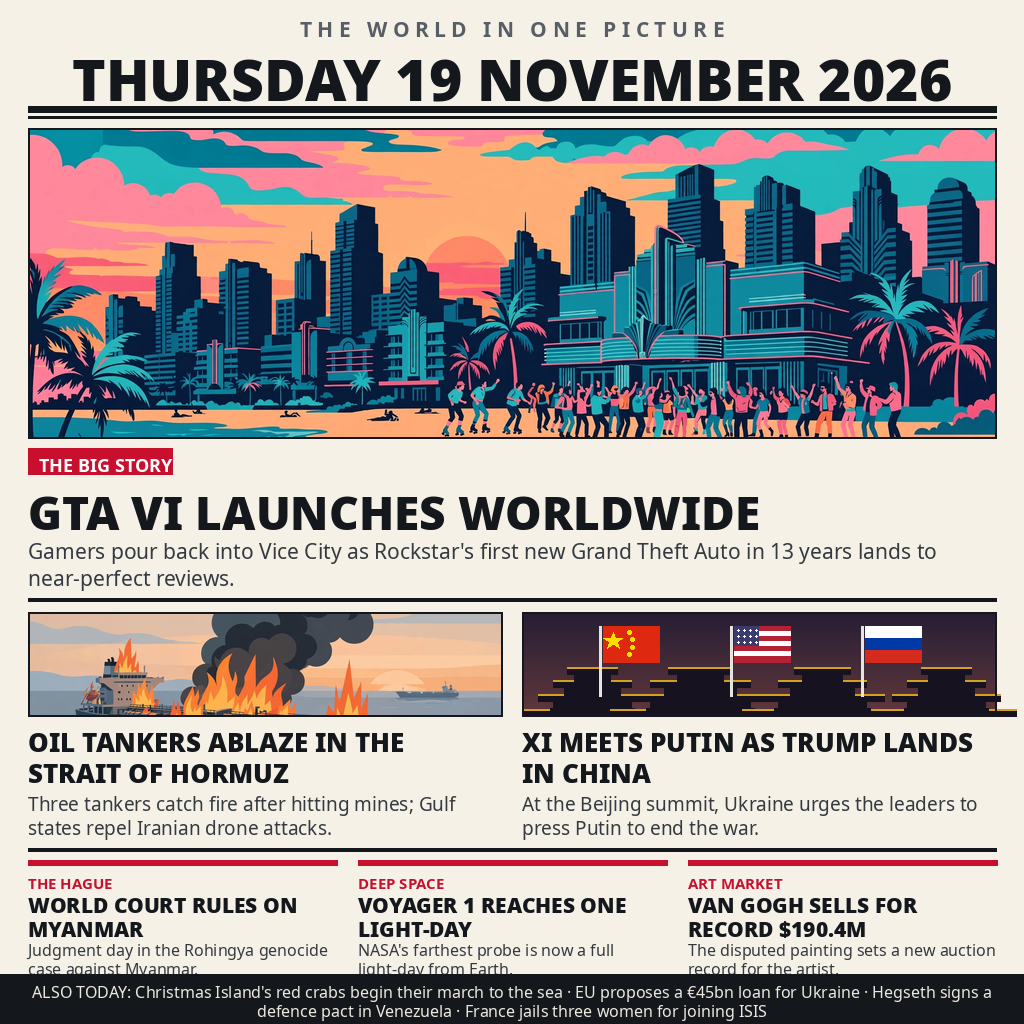
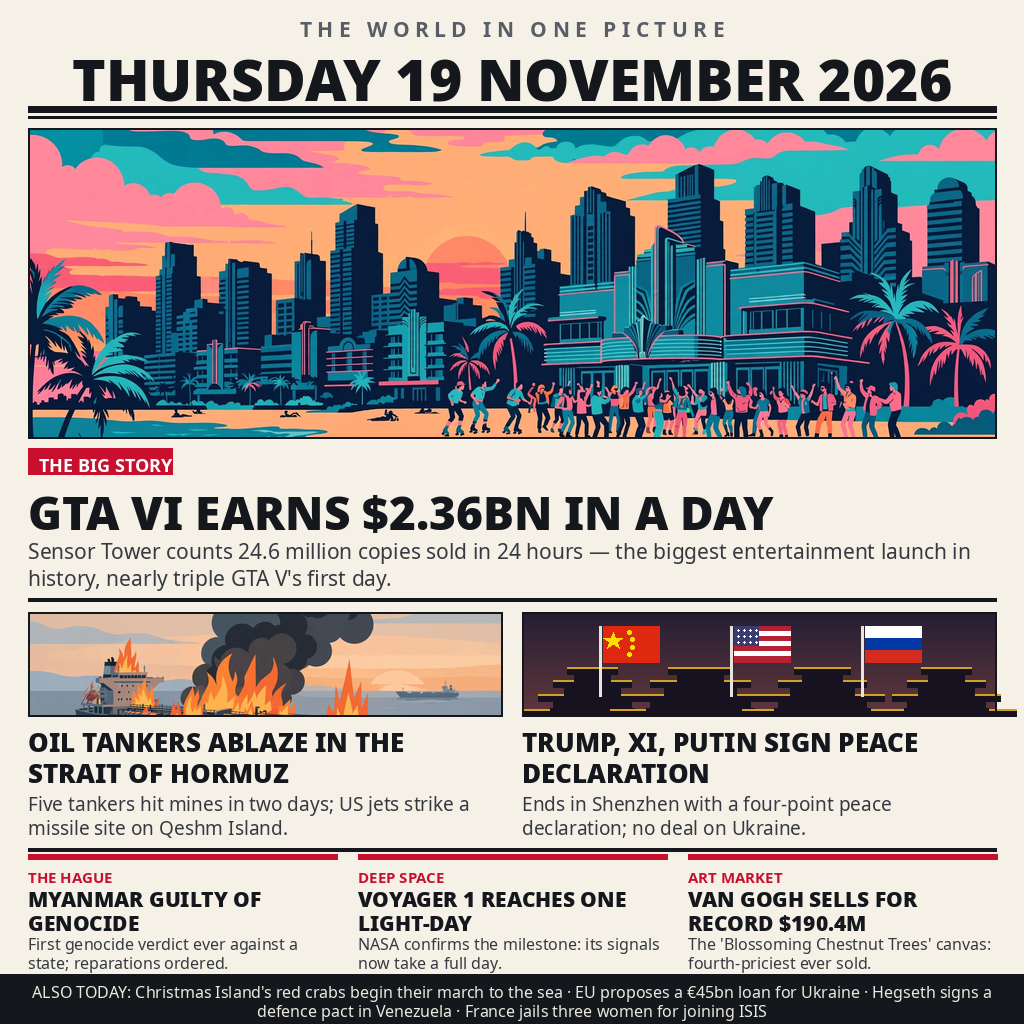
Full-day edition: GTA VI's $2.36bn launch day, ICJ genocide verdict, Shenzhen peace declaration
Refresh of the 19 Nov 2026 front page with the whole day's news:
- Lead: GTA VI earns an estimated $2.36bn on launch day (Sensor Tower,
  24.6m copies) - the biggest entertainment launch in history
- Summit panel corrected to Shenzhen and updated with the four-point
  peace declaration (was previewed as a Beijing summit in the morning)
- Hormuz caption: five tankers hit mines in two days; US strikes a
  missile site on Qeshm Island
- Hague card now carries the verdict: Myanmar guilty of genocide,
  reparations ordered
- Voyager card: NASA confirms the one-light-day milestone
- Van Gogh card names the painting ('Blossoming Chestnut Trees')
- Card band raised 6px so captions clear the footer ticker
- Adds draw_entry.py, the build-time generator; main.py stays a
  stdlib-only copier

Changed region(s): [[0.0312, 0.7188, 0.9688, 0.9688], [0.0312, 0.4688, 0.9375, 0.5938], [0.1875, 0.4688, 0.2188, 0.5]]

diff --git a/draw_entry.py b/draw_entry.py
@@ -1,0 +1,180 @@
+#!/usr/bin/env python3
+"""Build-time generator for the news-image-20261119 entry.
+
+Draws the front page (1024x1024) and saves it as entry.png beside this
+file. This is NOT the entrypoint: the site's runner has no Pillow, so
+main.py is a stdlib-only copier that delivers the committed entry.png
+byte for byte. Run this only where Pillow is installed, to regenerate
+the picture. The two panel illustrations (Vice City, tanker) are
+build-workspace files; ART_DIR points at them.
+
+Full-day edition for Thursday 19 November 2026: GTA VI's launch day
+closes with an estimated $2.36bn in sales (Sensor Tower); the World
+Court finds Myanmar committed genocide against the Rohingya; Trump, Xi
+and Putin end their Shenzhen summit with a peace declaration; five
+tankers hit mines in the Strait of Hormuz in two days; NASA confirms
+Voyager 1 at one light-day; a Van Gogh sells for a record $190.4M.
+"""
+import os
+
+from PIL import Image, ImageDraw, ImageFont
+
+W = H = 1024
+PAPER = (246, 241, 231)
+INK = (20, 24, 29)
+RED = (200, 16, 46)
+GREY = (88, 94, 102)
+BODY = (52, 58, 64)
+WHITE = (255, 255, 255)
+GOLD = (212, 160, 32)
+ART_DIR = "/home/hatch/workspace/makefun/news-image-20261119/work"
+HERE = os.path.dirname(os.path.abspath(__file__))
+
+F_BLACK = "/usr/share/fonts/truetype/noto/NotoSans-Black.ttf"
+F_BOLD = "/usr/share/fonts/truetype/noto/NotoSans-Bold.ttf"
+F_REG = "/usr/share/fonts/truetype/noto/NotoSans-Regular.ttf"
+
+def F(path, size):
+    return ImageFont.truetype(path, size)
+
+def tw(d, s, f):
+    return d.textlength(s, font=f)
+
+def center(d, cx, y, s, f, fill):
+    d.text((cx - tw(d, s, f) / 2, y), s, font=f, fill=fill)
+
+def wrap(d, s, f, max_w):
+    words, lines, cur = s.split(), [], ""
+    for w_ in words:
+        t = (cur + " " + w_).strip()
+        if tw(d, t, f) <= max_w:
+            cur = t
+        else:
+            lines.append(cur); cur = w_
+    if cur:
+        lines.append(cur)
+    return lines
+
+def paste_cover(canvas, im, box):
+    x0, y0, x1, y1 = box
+    tw_, th_ = x1 - x0, y1 - y0
+    iw, ih = im.size
+    sc = max(tw_ / iw, th_ / ih)
+    nw, nh = int(iw * sc + 0.5), int(ih * sc + 0.5)
+    r = im.resize((nw, nh), Image.LANCZOS)
+    ox, oy = (nw - tw_) // 2, (nh - th_) // 2
+    canvas.paste(r.crop((ox, oy, ox + tw_, oy + th_)), (x0, y0))
+
+img = Image.new("RGB", (W, H), PAPER)
+d = ImageDraw.Draw(img)
+
+# ---------- masthead ----------
+center(d, W // 2, 14, "T H E   W O R L D   I N   O N E   P I C T U R E", F(F_BOLD, 21), GREY)
+center(d, W // 2, 40, "THURSDAY 19 NOVEMBER 2026", F(F_BLACK, 57), INK)
+d.rectangle([28, 106, 996, 112], fill=INK)
+d.rectangle([28, 116, 996, 118], fill=INK)
+
+# ---------- lead: GTA VI ----------
+vice = Image.open(ART_DIR + "/media-generation-panel-vice-city-0-dc0eb8fd-ee83-40b0-964a-c3bb29fb68ce.png").convert("RGB")
+paste_cover(img, vice, (28, 128, 996, 438))
+d.rectangle([28, 128, 996, 438], outline=INK, width=2)
+d.rectangle([28, 448, 172, 474], fill=RED)
+d.text((39, 452), "THE BIG STORY", font=F(F_BOLD, 18), fill=WHITE)
+d.text((28, 480), "GTA VI EARNS $2.36BN IN A DAY", font=F(F_BLACK, 46), fill=INK)
+sub = "Sensor Tower counts 24.6 million copies sold in 24 hours \u2014 the biggest entertainment launch in history, nearly triple GTA V's first day."
+for i, line in enumerate(wrap(d, sub, F(F_REG, 21), 968)):
+    d.text((28, 536 + i * 27), line, font=F(F_REG, 21), fill=BODY)
+d.rectangle([28, 598, 996, 601], fill=INK)
+
+# ---------- middle row ----------
+tanker = Image.open(ART_DIR + "/media-generation-panel-tanker-0-9ad66c44-70e5-449d-ba15-0ac3c661afc2.png").convert("RGB")
+paste_cover(img, tanker, (28, 612, 502, 716))
+d.rectangle([28, 612, 502, 716], outline=INK, width=2)
+for i, line in enumerate(wrap(d, "OIL TANKERS ABLAZE IN THE STRAIT OF HORMUZ", F(F_BLACK, 26), 474)):
+    d.text((28, 724 + i * 31), line, font=F(F_BLACK, 26), fill=INK)
+cap = "Five tankers hit mines in two days; US jets strike a missile site on Qeshm Island."
+for i, line in enumerate(wrap(d, cap, F(F_REG, 19), 474)):
+    d.text((28, 790 + i * 24), line, font=F(F_REG, 19), fill=BODY)
+
+# summit panel art (drawn): Chinese rooftops + CN / US / RU flags
+sx0, sy0, sx1, sy1 = 522, 612, 996, 716
+for i in range(sy1 - sy0):
+    t = i / (sy1 - sy0)
+    d.line([(sx0, sy0 + i), (sx1, sy0 + i)], fill=(int(38 + 60 * t), int(30 + 26 * t), int(52 + 8 * t)))
+def roof(cx, base, w_, h_, col):
+    d.polygon([(cx - w_ // 2, base), (cx + w_ // 2, base), (cx + w_ // 4, base - h_), (cx - w_ // 4, base - h_)], fill=col)
+    d.rectangle([cx - w_ // 4, base - h_, cx + w_ // 4, base - h_ + 5], fill=col)
+SIL = (22, 18, 32)
+def pagoda(cx, base, w_):
+    tiers = [(1.0, 0), (0.78, 15), (0.56, 29), (0.36, 42)]
+    for frac, lift in tiers:
+        tw_ = int(w_ * frac)
+        yb = base - lift
+        d.rectangle([cx - tw_ // 2, yb - 7, cx + tw_ // 2, yb], fill=SIL)
+        d.line([(cx - tw_ // 2, yb - 7), (cx + tw_ // 2, yb - 7)], fill=GOLD, width=2)
+        if lift:
+            d.rectangle([cx - int(tw_ * 0.36), yb, cx + int(tw_ * 0.36), yb + 8], fill=SIL)
+    d.rectangle([cx - int(w_ * 0.30), base - 8, cx + int(w_ * 0.30), base], fill=SIL)
+for cx, w_ in [(592, 140), (700, 180), (822, 160), (946, 140)]:
+    pagoda(cx, sy1, w_)
+def flag(x, y, kind):
+    fw, fh = 56, 36
+    if kind == "CN":
+        d.rectangle([x, y, x + fw, y + fh], fill=(222, 41, 16))
+        d.polygon([(x + 10, y + 6), (x + 12.5, y + 12), (x + 19, y + 12), (x + 14, y + 16), (x + 16, y + 22), (x + 10, y + 18), (x + 4, y + 22), (x + 6, y + 16), (x, y + 12), (x + 7.5, y + 12)], fill=(255, 222, 0))
+        for dx, dy in [(24, 4), (27, 11), (27, 19), (24, 26)]:
+            d.ellipse([x + dx, y + dy, x + dx + 4, y + dy + 4], fill=(255, 222, 0))
+    elif kind == "US":
+        for i in range(7):
+            col = (178, 34, 52) if i % 2 == 0 else (255, 255, 255)
+            d.rectangle([x, y + i * fh // 7, x + fw, y + (i + 1) * fh // 7], fill=col)
+        d.rectangle([x, y, x + 24, y + 19], fill=(60, 59, 110))
+        for r in range(3):
+            for c in range(4):
+                d.ellipse([x + 3 + c * 6, y + 3 + r * 6, x + 5 + c * 6, y + 5 + r * 6], fill=WHITE)
+    else:
+        d.rectangle([x, y, x + fw, y + 12], fill=WHITE)
+        d.rectangle([x, y + 12, x + fw, y + 24], fill=(0, 57, 166))
+        d.rectangle([x, y + 24, x + fw, y + fh], fill=(213, 43, 30))
+for px, kind in [(600, "CN"), (731, "US"), (862, "RU")]:
+    d.line([(px, sy0 + 14), (px, sy1 - 20)], fill=(230, 228, 220), width=3)
+    flag(px + 3, sy0 + 14, kind)
+d.rectangle([sx0, sy0, sx1, sy1], outline=INK, width=2)
+for i, line in enumerate(wrap(d, "TRUMP, XI, PUTIN SIGN PEACE DECLARATION", F(F_BLACK, 26), 474)):
+    d.text((522, 724 + i * 31), line, font=F(F_BLACK, 26), fill=INK)
+cap2 = "Ends in Shenzhen with a four-point peace declaration; no deal on Ukraine."
+for i, line in enumerate(wrap(d, cap2, F(F_REG, 19), 474)):
+    d.text((522, 790 + i * 24), line, font=F(F_REG, 19), fill=BODY)
+d.rectangle([28, 848, 996, 851], fill=INK)
+
+# ---------- bottom row: three text cards ----------
+# (band set 6px higher than the morning edition so caption text
+#  clears the footer ticker instead of grazing it)
+cards = [
+    ("THE HAGUE", "MYANMAR GUILTY OF GENOCIDE",
+     "First genocide verdict ever against a state; reparations ordered."),
+    ("DEEP SPACE", "VOYAGER 1 REACHES ONE LIGHT-DAY",
+     "NASA confirms the milestone: its signals now take a full day."),
+    ("ART MARKET", "VAN GOGH SELLS FOR RECORD $190.4M",
+     "The 'Blossoming Chestnut Trees' canvas: fourth-priciest ever sold."),
+]
+for i, (kick, head, cap_) in enumerate(cards):
+    x = 28 + i * 330
+    d.rectangle([x, 854, x + 309, 859], fill=RED)
+    d.text((x, 866), kick, font=F(F_BOLD, 15), fill=RED)
+    for j, line in enumerate(wrap(d, head, F(F_BLACK, 21), 309)):
+        d.text((x, 884 + j * 24), line, font=F(F_BLACK, 21), fill=INK)
+    for j, line in enumerate(wrap(d, cap_, F(F_REG, 16), 309)):
+        d.text((x, 932 + j * 19), line, font=F(F_REG, 16), fill=BODY)
+
+# ---------- footer ticker ----------
+d.rectangle([0, 974, 1024, 1024], fill=INK)
+tick = "Christmas Island's red crabs begin their march to the sea  \u00b7  EU proposes a \u20ac45bn loan for Ukraine  \u00b7  Hegseth signs a defence pact in Venezuela  \u00b7  France jails three women for joining ISIS"
+total = "ALSO TODAY:  " + tick
+lines = wrap(d, total, F(F_REG, 16), 968)
+for i, line in enumerate(lines[:2]):
+    center(d, W // 2, 980 + i * 19, line, F(F_REG, 16), (235, 232, 222))
+
+out = os.path.join(HERE, "entry.png")
+img.save(out, optimize=True)
+print("saved", out, img.size, os.path.getsize(out), "bytes")

diff --git a/main.py b/main.py
@@ -2,11 +2,14 @@
 world news of Thursday 19 November 2026.
 
 The picture lives beside this program as entry.png: a front page whose
-masthead names the day, whose lead panel shows GTA VI's worldwide launch,
-and whose smaller panels cover the Strait of Hormuz tanker fires, the
-Beijing summit of the Chinese, US and Russian leaders, the World Court's
-Myanmar judgment, Voyager 1 reaching one light-day from Earth and the
-record $190.4M Van Gogh sale, with a ticker of the day's other stories.
+masthead names the day, whose lead panel reports GTA VI's record $2.36bn
+launch day, and whose smaller panels cover the Strait of Hormuz tanker
+fires, the Shenzhen summit of the Chinese, US and Russian leaders and
+its peace declaration, the World Court's genocide verdict against
+Myanmar, NASA's confirmation of Voyager 1 at one light-day from Earth
+and the record $190.4M Van Gogh sale, with a ticker of the day's other
+stories. The picture itself is drawn at build time by draw_entry.py;
+this program never draws.
 
 The program's whole job is to deliver those exact bytes to the grader:
 read entry.png from this repository and write it, unchanged, as

diff --git a/README.md b/README.md
@@ -4,7 +4,7 @@
 [![rank](https://make.fun/badge/news-image-20261119/StarsN/news-image-20261119-entry/rank.svg)](https://make.fun/bounty/news-image-20261119/leaderboard?utm_source=github&utm_medium=readme&utm_campaign=news-image-20261119)
 [![reward](https://make.fun/badge/news-image-20261119/StarsN/news-image-20261119-entry/reward.svg)](https://make.fun/bounty/news-image-20261119?utm_source=github&utm_medium=readme&utm_campaign=news-image-20261119)
 
-One image that sums up the world news of Thursday 19 November 2026, built as a newspaper front page: GTA VI's worldwide launch as the lead story, with the Strait of Hormuz tanker fires, the Beijing summit of the Chinese, US and Russian leaders, the World Court's Myanmar judgment, Voyager 1 reaching one light-day from Earth and the record $190.4M Van Gogh sale, plus a ticker of the day's other headlines. The program at main.py copies the picture (entry.png, 1024x1024) to the output directory byte for byte.
+One image that sums up the world news of Thursday 19 November 2026, built as a newspaper front page (full-day edition): GTA VI's record-breaking launch day — an estimated $2.36bn in sales — as the lead story, with five tankers ablaze in the Strait of Hormuz, the Shenzhen summit of the Chinese, US and Russian leaders ending in a peace declaration, the World Court's verdict that Myanmar committed genocide against the Rohingya, NASA's confirmation of Voyager 1 at one light-day from Earth and the record $190.4M Van Gogh sale, plus a ticker of the day's other headlines. The picture is drawn at build time by draw_entry.py (Pillow); the program at main.py is a standard-library-only copier that delivers the picture (entry.png, 1024x1024) to the output directory byte for byte.
 
 ## Run it
 
